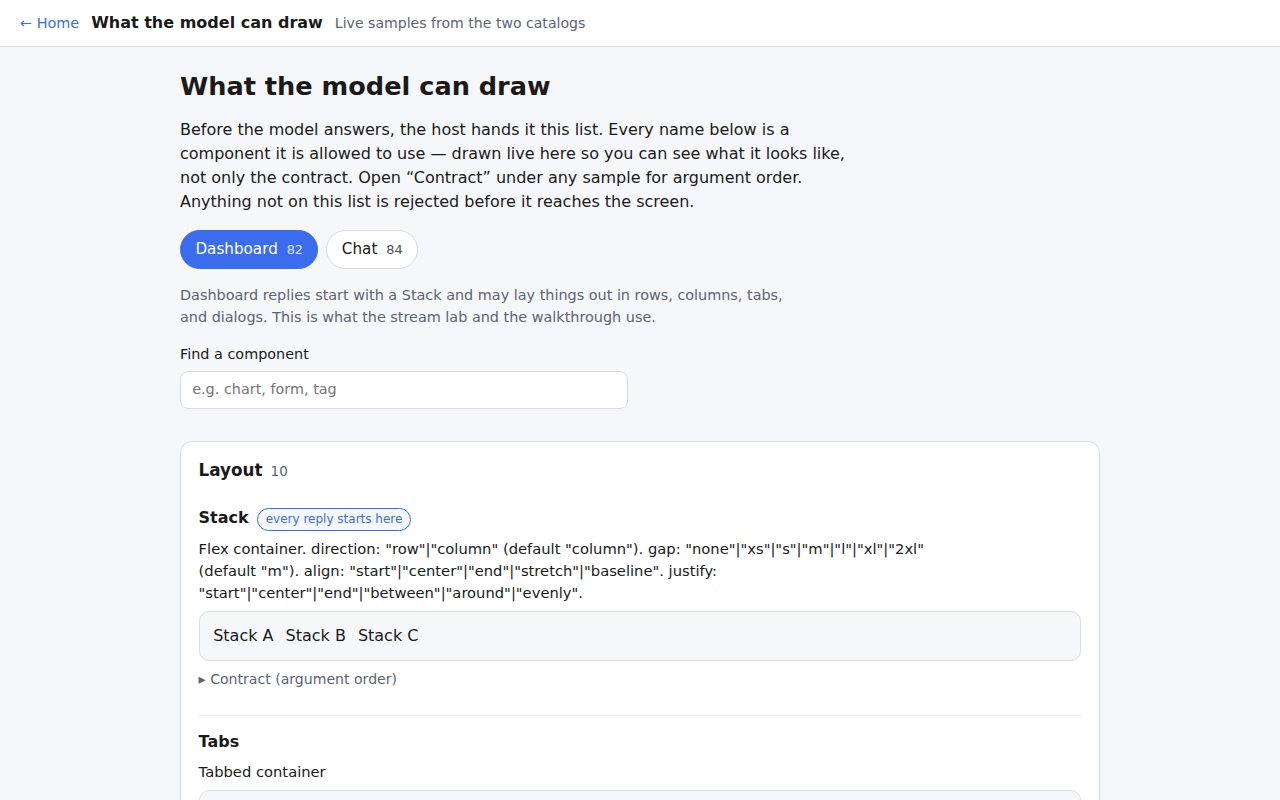
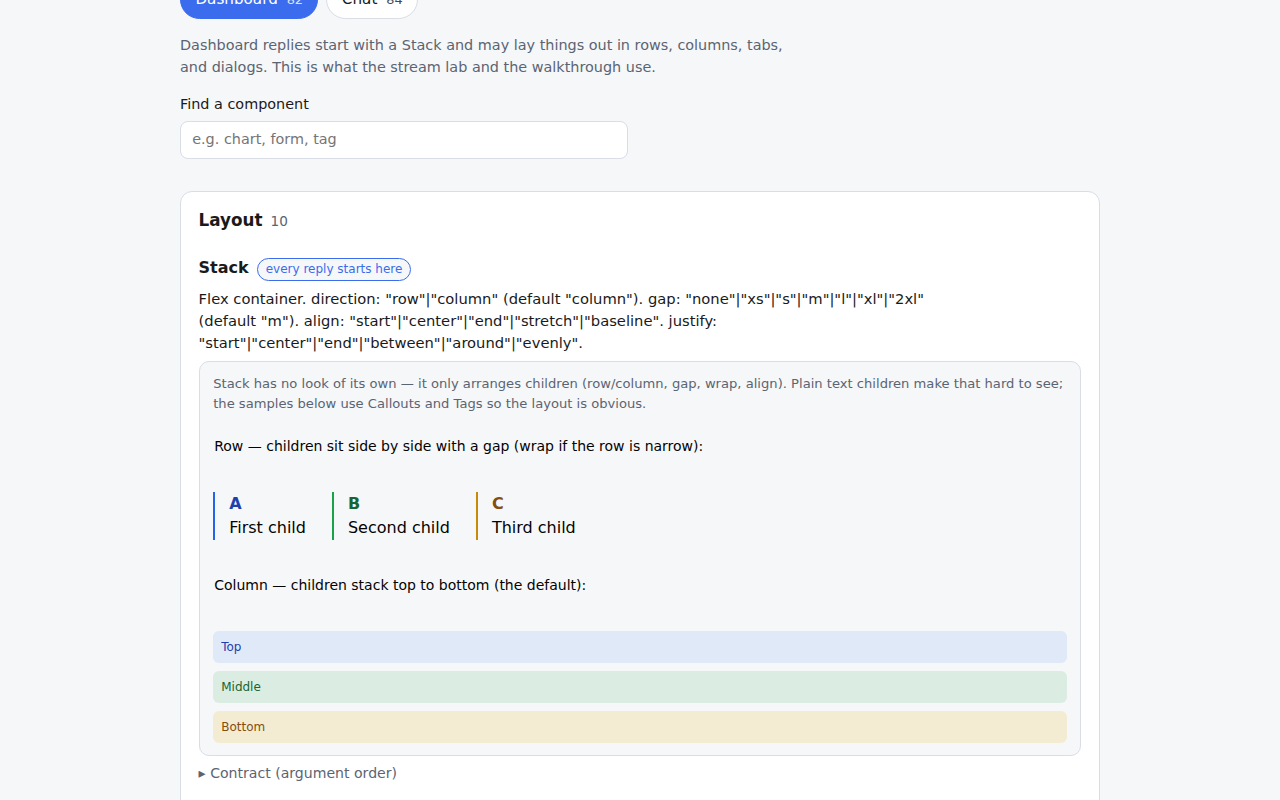
Make Stack demos show layout, not look like plain text
Stack was already flexing correctly (row/column + gap). Demos used bare
Text labels so the gap read as word spacing. Catalog, stack-card, and
foundation now show the same children as Callouts/Tags in both a row and
a column so the arrangement is obvious.

diff --git a/public/lab/a5-stack-card.js b/public/lab/a5-stack-card.js
@@ -1,25 +1,17 @@
 /**
  * A5.1 lab — mount Stack + Card fixtures (Playwright target for A5.8).
+ * Stack is layout-only; children are Callouts so row/gap/wrap are visible.
  */
 import { createComponentRegistry } from "../assets/js/renderer/registry.js";
 import { createRenderContext } from "../assets/js/renderer/context.js";
 import { render } from "../assets/js/renderer/reconciler.js";
 import { registerFoundation } from "../assets/js/components/registerFoundation.js";
+import { registerContent } from "../assets/js/components/content/registerContent.js";
 import * as urlPolicy from "../assets/js/security/urlPolicy.js";
-
-const Text = {
-  create(_props, ctx) {
-    const el = ctx.document.createElement("span");
-    el.setAttribute("data-canvas-component", "Text");
-    return el;
-  },
-  update() {},
-  destroy() {},
-};
 
 const registry = createComponentRegistry();
 registerFoundation(registry);
-registry.register("Text", Text);
+registerContent(registry);
 
 const ctx = createRenderContext({
   document,
@@ -35,12 +27,71 @@ render(
   stackMount,
   {
     type: "Stack",
-    id: "lab-stack",
-    props: { direction: "row", gap: "l", align: "center", wrap: true },
+    id: "lab-stack-root",
+    props: { direction: "column", gap: "l" },
     children: [
-      { type: "Text", id: "a", children: ["Monday"] },
-      { type: "Text", id: "b", children: ["Tuesday"] },
-      { type: "Text", id: "c", children: ["Wednesday"] },
+      {
+        type: "TextContent",
+        id: "lab-stack-row-label",
+        props: {
+          text: "Row — three panels side by side (narrow the window and they wrap):",
+          variant: "clear",
+          size: "sm",
+        },
+      },
+      {
+        type: "Stack",
+        id: "lab-stack-row",
+        props: { direction: "row", gap: "l", align: "stretch", wrap: true },
+        children: [
+          {
+            type: "Callout",
+            id: "lab-stack-a",
+            props: { title: "Monday", description: "First child in the row", variant: "info" },
+          },
+          {
+            type: "Callout",
+            id: "lab-stack-b",
+            props: { title: "Tuesday", description: "Second child — notice the gap", variant: "success" },
+          },
+          {
+            type: "Callout",
+            id: "lab-stack-c",
+            props: { title: "Wednesday", description: "Third child", variant: "warning" },
+          },
+        ],
+      },
+      {
+        type: "TextContent",
+        id: "lab-stack-col-label",
+        props: {
+          text: "Column — same three panels, top to bottom (Stack’s default):",
+          variant: "clear",
+          size: "sm",
+        },
+      },
+      {
+        type: "Stack",
+        id: "lab-stack-col",
+        props: { direction: "column", gap: "s" },
+        children: [
+          {
+            type: "Callout",
+            id: "lab-stack-d",
+            props: { title: "Top", description: "First in the column", variant: "info" },
+          },
+          {
+            type: "Callout",
+            id: "lab-stack-e",
+            props: { title: "Middle", description: "Second in the column", variant: "success" },
+          },
+          {
+            type: "Callout",
+            id: "lab-stack-f",
+            props: { title: "Bottom", description: "Third in the column", variant: "warning" },
+          },
+        ],
+      },
     ],
   },
   ctx,
@@ -54,10 +105,22 @@ render(
     props: { variant: "card" },
     children: [
       {
+        type: "CardHeader",
+        id: "card-h",
+        props: { title: "Sales this week", subtitle: "With the system they came from" },
+      },
+      {
         type: "CardContent",
         id: "body",
         children: [
-          { type: "Text", id: "line", children: ["Sales this week, with the system they came from."] },
+          {
+            type: "TextContent",
+            id: "line",
+            props: {
+              text: "A Card is a titled box. The source under it is a link — that is the only control on this page.",
+              variant: "clear",
+            },
+          },
         ],
       },
       {
@@ -92,4 +155,8 @@ render(
   ctx,
 );
 
-if (status) status.textContent = "Ready. The source under the card is a link.";
+if (status) {
+  status.textContent =
+    "Ready. Stack only arranges children (row vs column, gap, wrap). The source under the card is a link.";
+  status.setAttribute("data-lab-ready", "1");
+}

diff --git a/public/lab/catalog-demos.js b/public/lab/catalog-demos.js
@@ -30,14 +30,62 @@ const DEMOS = {
   Stack: () => ({
     vnode: {
       type: "Stack",
-      id: "d-stack",
-      props: { direction: "row", gap: "m", wrap: true },
+      id: "d-stack-root",
+      props: { direction: "column", gap: "l" },
       children: [
-        { type: "Text", id: "d-sa", props: { text: "Stack A" } },
-        { type: "Text", id: "d-sb", props: { text: "Stack B" } },
-        { type: "Text", id: "d-sc", props: { text: "Stack C" } },
+        {
+          type: "TextContent",
+          id: "d-stack-row-label",
+          props: {
+            text: "Row — children sit side by side with a gap (wrap if the row is narrow):",
+            variant: "clear",
+            size: "sm",
+          },
+        },
+        {
+          type: "Stack",
+          id: "d-stack-row",
+          props: { direction: "row", gap: "m", wrap: true, align: "stretch" },
+          children: [
+            {
+              type: "Callout",
+              id: "d-stack-a",
+              props: { title: "A", description: "First child", variant: "info" },
+            },
+            {
+              type: "Callout",
+              id: "d-stack-b",
+              props: { title: "B", description: "Second child", variant: "success" },
+            },
+            {
+              type: "Callout",
+              id: "d-stack-c",
+              props: { title: "C", description: "Third child", variant: "warning" },
+            },
+          ],
+        },
+        {
+          type: "TextContent",
+          id: "d-stack-col-label",
+          props: {
+            text: "Column — children stack top to bottom (the default):",
+            variant: "clear",
+            size: "sm",
+          },
+        },
+        {
+          type: "Stack",
+          id: "d-stack-col",
+          props: { direction: "column", gap: "s" },
+          children: [
+            { type: "Tag", id: "d-stack-t1", props: { text: "Top", variant: "info" } },
+            { type: "Tag", id: "d-stack-t2", props: { text: "Middle", variant: "success" } },
+            { type: "Tag", id: "d-stack-t3", props: { text: "Bottom", variant: "warning" } },
+          ],
+        },
       ],
     },
+    note: "Stack has no look of its own — it only arranges children (row/column, gap, wrap, align). Plain text children make that hard to see; the samples below use Callouts and Tags so the layout is obvious.",
   }),
 
   Card: () => ({

diff --git a/public/lab/a5-stack-card.html b/public/lab/a5-stack-card.html
@@ -6,7 +6,7 @@
     <title>Sanctum Canvas — Stack and Card</title>
     <meta
       http-equiv="Content-Security-Policy"
-      content="default-src 'self'; script-src 'self'; style-src 'self'; img-src 'self' data: https:; connect-src 'self'; object-src 'none'; base-uri 'self'; frame-ancestors 'none'"
+      content="default-src 'self'; script-src 'self'; style-src 'self' 'unsafe-inline'; img-src 'self' data: https:; connect-src 'self'; object-src 'none'; base-uri 'self'; frame-ancestors 'none'"
     />
     <link rel="stylesheet" href="../assets/css/tokens.css" />
     <link rel="stylesheet" href="../assets/css/skins.css" />
@@ -14,6 +14,7 @@
     <link rel="stylesheet" href="../assets/css/a11y.css" />
     <link rel="stylesheet" href="../assets/css/components/stack.css" />
     <link rel="stylesheet" href="../assets/css/components/card.css" />
+    <link rel="stylesheet" href="../assets/css/components/content.css" />
     <link rel="stylesheet" href="./gallery.css" />
   </head>
   <body class="gal-body">
@@ -25,14 +26,18 @@
     <main class="gal-main" id="canvas-root">
       <h1>Stack and Card</h1>
       <p class="gal-lede">
-        A model reply is a Stack (things in a row or a column) or a Card (a
-        title, a body, and where the numbers came from). The words in the
-        stack are labels, not buttons. The source under the card is a link.
+        A model reply starts in a Stack (invisible flex layout — row or column,
+        with a gap) or a Card (a titled box with optional sources). Stack has no
+        chrome of its own; the panels below are Callouts so you can see the
+        arrangement. The source under the card is a link.
       </p>
 
       <section class="gal-section" aria-label="Stack">
         <h2>Stack</h2>
-        <p class="gal-note">Three labels in a row. Narrow the window and they wrap. Nothing here is a control.</p>
+        <p class="gal-note">
+          Same three children twice: once in a row, once in a column. Narrow the
+          window and the row wraps. Nothing in the stack is a control.
+        </p>
         <div id="mount-stack" aria-label="Stack sample"></div>
       </section>
 

diff --git a/public/lab/a5-foundation.js b/public/lab/a5-foundation.js
@@ -58,12 +58,71 @@ function mount(id, vnode) {
 
 mount("mount-stack", {
   type: "Stack",
-  id: "lab-stack",
-  props: { direction: "row", gap: "l", align: "center", wrap: true },
+  id: "lab-stack-root",
+  props: { direction: "column", gap: "l" },
   children: [
-    { type: "Text", id: "sa", children: ["Stack A"] },
-    { type: "Text", id: "sb", children: ["Stack B"] },
-    { type: "Text", id: "sc", children: ["Stack C"] },
+    {
+      type: "TextContent",
+      id: "sa-label",
+      props: {
+        text: "Row — children sit side by side with a gap:",
+        variant: "clear",
+        size: "sm",
+      },
+    },
+    {
+      type: "Stack",
+      id: "lab-stack-row",
+      props: { direction: "row", gap: "l", align: "stretch", wrap: true },
+      children: [
+        {
+          type: "Callout",
+          id: "sa",
+          props: { title: "A", description: "First child", variant: "info" },
+        },
+        {
+          type: "Callout",
+          id: "sb",
+          props: { title: "B", description: "Second child", variant: "success" },
+        },
+        {
+          type: "Callout",
+          id: "sc",
+          props: { title: "C", description: "Third child", variant: "warning" },
+        },
+      ],
+    },
+    {
+      type: "TextContent",
+      id: "sc-label",
+      props: {
+        text: "Column — same children, top to bottom:",
+        variant: "clear",
+        size: "sm",
+      },
+    },
+    {
+      type: "Stack",
+      id: "lab-stack-col",
+      props: { direction: "column", gap: "s" },
+      children: [
+        {
+          type: "Callout",
+          id: "sd",
+          props: { title: "Top", description: "First in column", variant: "info" },
+        },
+        {
+          type: "Callout",
+          id: "se",
+          props: { title: "Middle", description: "Second in column", variant: "success" },
+        },
+        {
+          type: "Callout",
+          id: "sf",
+          props: { title: "Bottom", description: "Third in column", variant: "warning" },
+        },
+      ],
+    },
   ],
 });
 

diff --git a/public/lab/a5-foundation.html b/public/lab/a5-foundation.html
@@ -48,6 +48,10 @@
 
       <section class="lab-family" id="family-stack" data-family="stack" aria-label="Stack">
         <h2>Stack</h2>
+        <p class="gal-note">
+          Layout only — no chrome. Same three Callouts in a row, then again in a
+          column, so the gap and direction are visible.
+        </p>
         <div class="lab-mount" id="mount-stack"></div>
       </section>
 

diff --git a/tools/design-smoke/verify_a9_home_walkthrough.py b/tools/design-smoke/verify_a9_home_walkthrough.py
@@ -150,6 +150,13 @@ def run(base: str, tag: str) -> list[str]:
         assert page.locator("#comp-Stack .cat-comp__badge--root").count() == 1, "Stack not marked root"
         assert page.locator("#comp-FormControl .cat-comp__sig").text_content().find("Input | TextArea") >= 0
         # Live draws — not just JSON contracts
+        assert page.locator('#comp-Stack .cat-comp__mount [data-canvas-component="Callout"]').count() >= 3
+        assert page.locator('#comp-Stack .cat-comp__mount [data-canvas-component="Stack"][data-direction="row"]').count() >= 1
+        assert page.locator('#comp-Stack .cat-comp__mount [data-canvas-component="Stack"][data-direction="column"]').count() >= 1
+        page.locator("#comp-Stack").scroll_into_view_if_needed()
+        shot = OUT / f"a9-catalog-stack-desktop-{tag}.png"
+        page.locator("#comp-Stack").screenshot(path=str(shot))
+        written.append(str(shot))
         for name in ("Stack", "BarChart", "Form", "Tag", "SnippetCardBlock", "Modal"):
             mount = page.locator(f'#comp-{name} .cat-comp__mount')
             assert mount.count() == 1, f"missing live mount for {name}"
